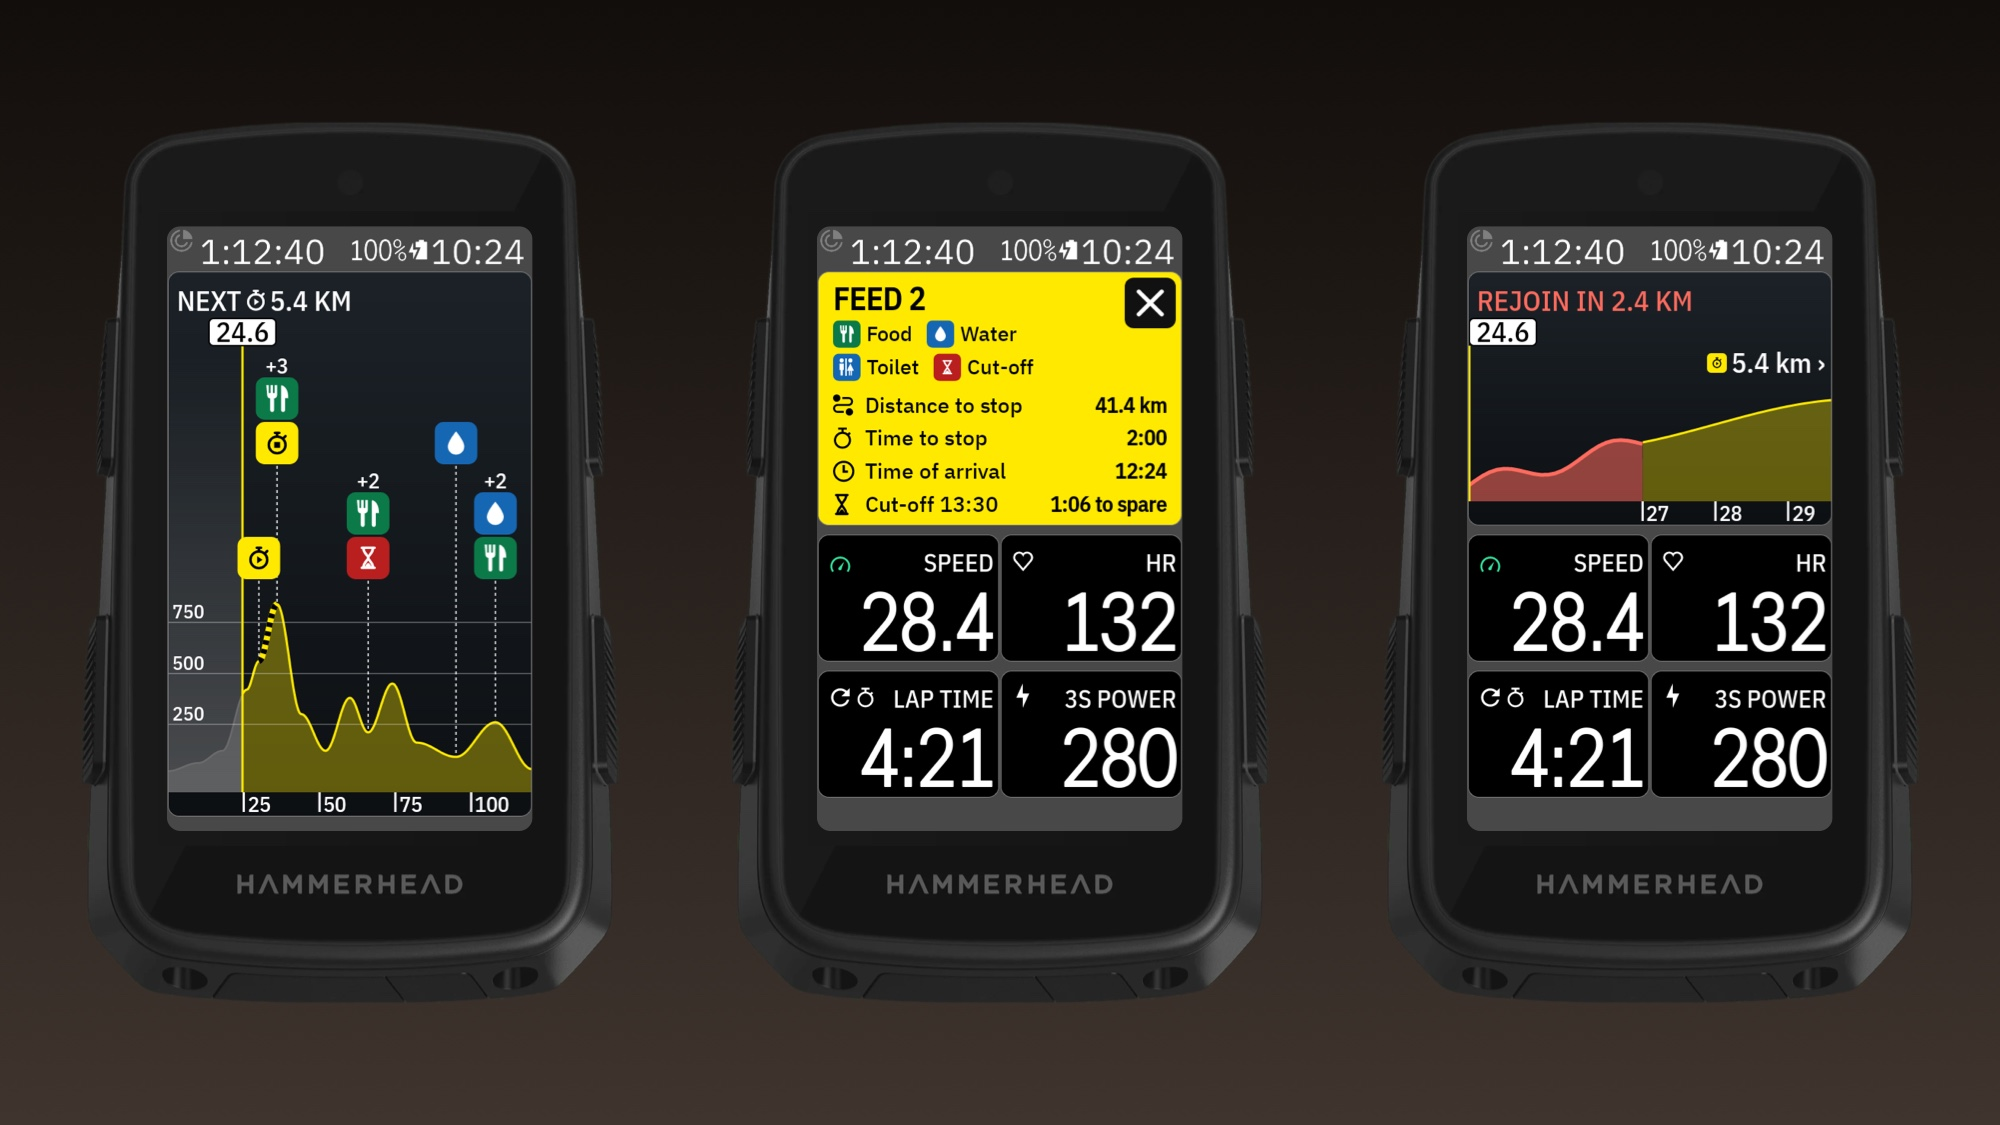
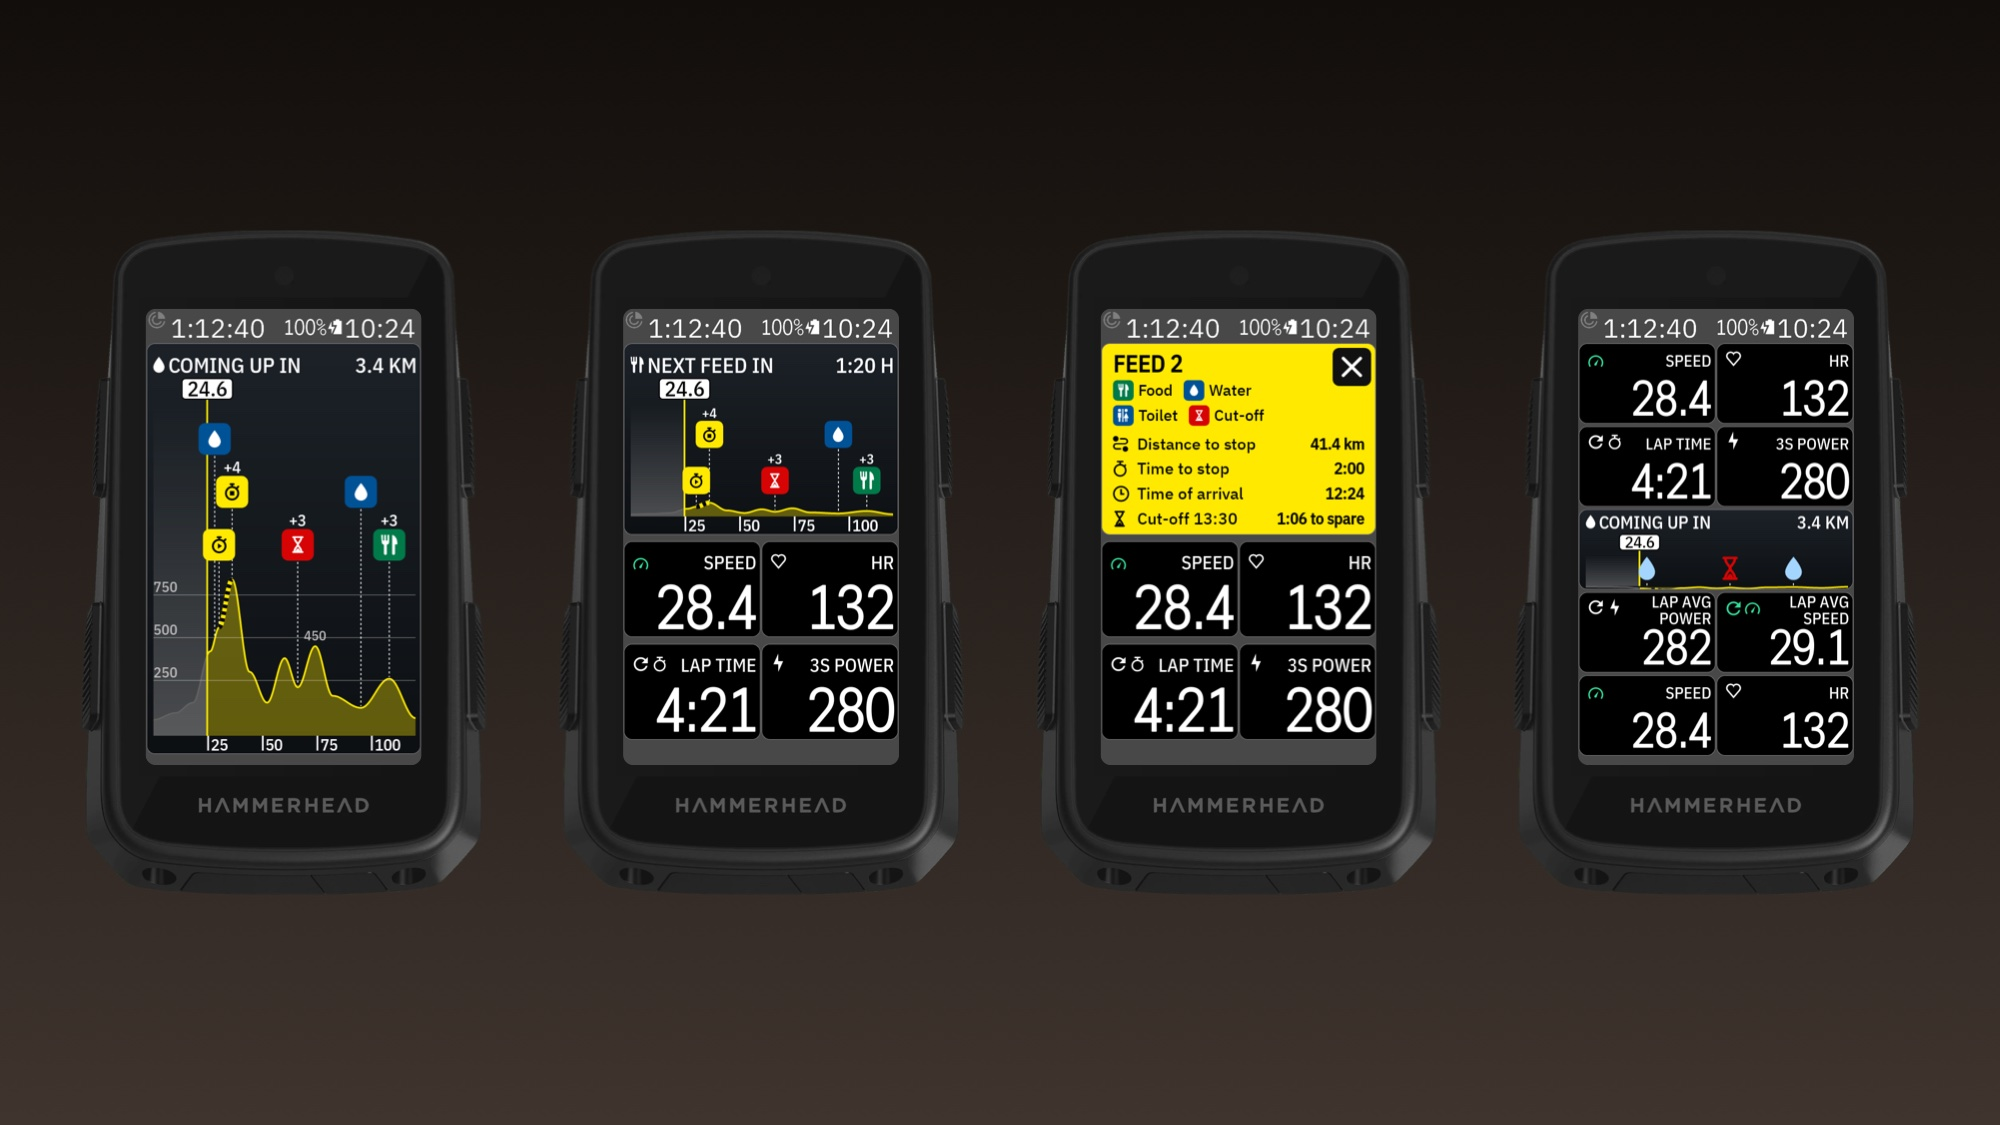
README pictures for v0.3.0: four Karoos
The whole route with a water stop first, NEXT FEED IN on a half page, the
feed card with its cut-off, and a one-row tile with bare icons; light and dark.

diff --git a/README.md b/README.md
@@ -9,8 +9,8 @@ A Hammerhead Karoo 3 data field that shows the route ahead as an elevation graph
 own Upcoming Elevation, with every stop on it: feed stations with what they have (food, water, toilets,
 mechanic), timing starts and ends, and the next cut-off. Made for gran fondos and long event rides.
 
-<img src="docs/images/upahead-light.jpg" alt="UpAhead on three Karoo 3s: the whole route with its stops above the graph, a feed stop's card (food, water, toilet, cut-off 13:30 with 1:06 to spare), and off route with the way back in red and REJOIN IN 2.4 KM">
-<img src="docs/images/upahead-dark.jpg" alt="The same three screens in dark mode">
+<img src="docs/images/upahead-light.jpg" alt="UpAhead on four Karoo 3s: the whole route with its stops above the graph (COMING UP IN 3.4 KM, a water stop), NEXT FEED IN 1:20 H on a half page, a feed stop's card (food, water, toilet, cut-off 13:30 with 1:06 to spare), and a one-row tile with bare stop icons">
+<img src="docs/images/upahead-dark.jpg" alt="The same four screens in dark mode">
 
 - **Every stop on the graph:** the route's POIs as icons above the elevation graph, one column per stop, the most important ones first (your order).
 - **Tap like the Karoo's own graph:** tap to zoom out, double-tap to zoom in, through 2, 5, 10, 25, 50, 80, 150 and 300 km and the whole route. A remote button works too.
